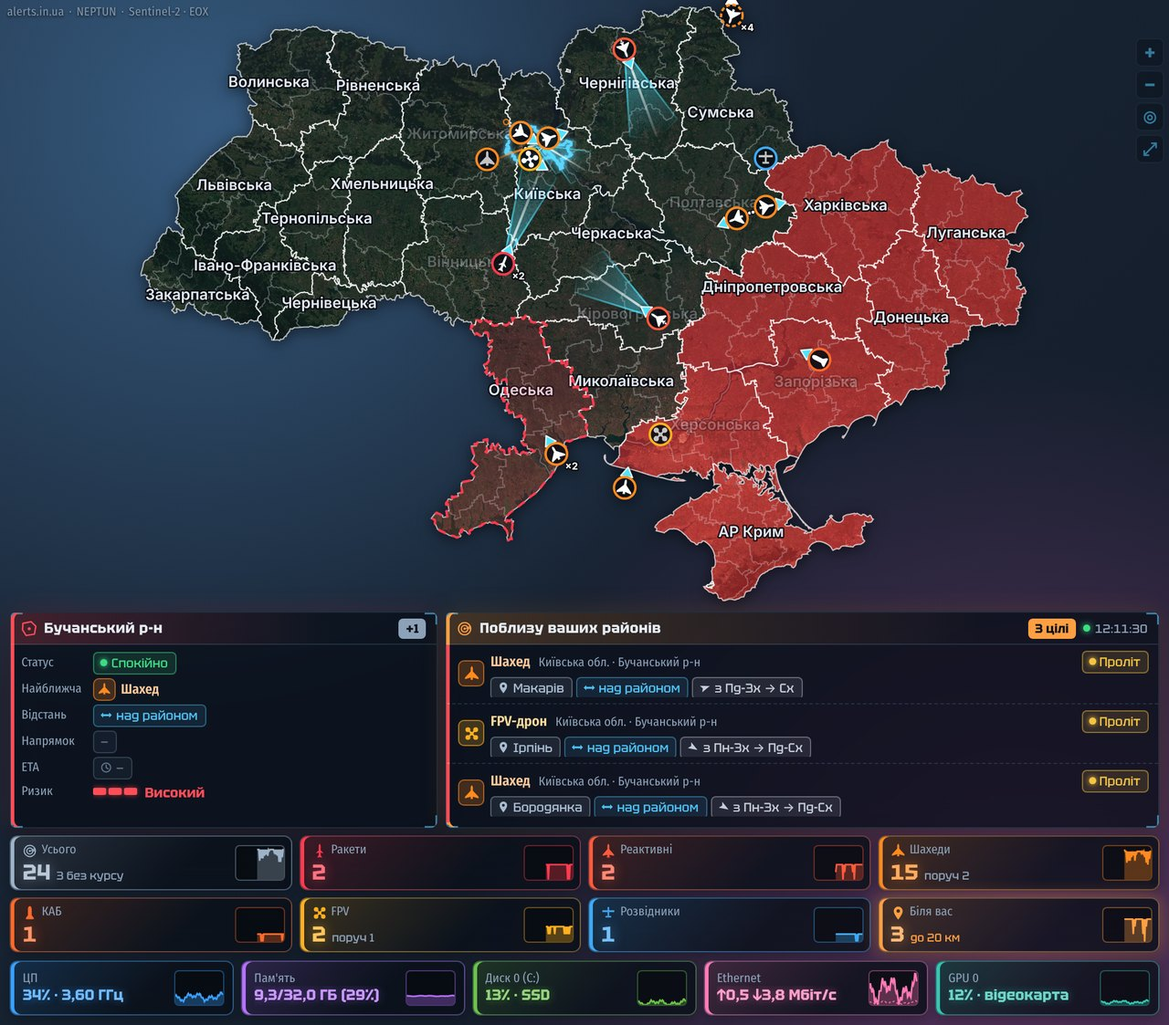
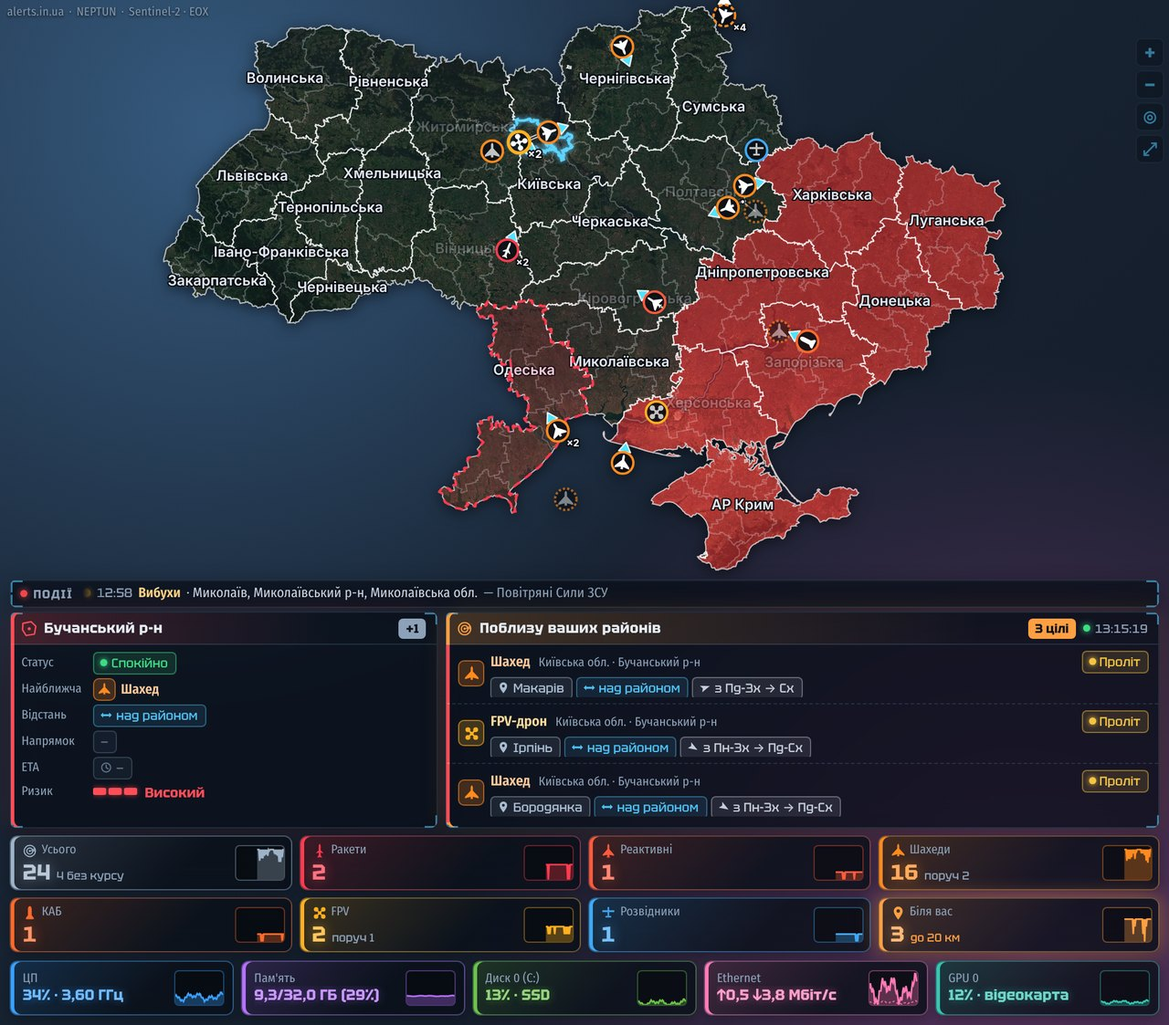
Docs for 1.2.0: ticker, explosions, names, zoom, jets rule, screenshots
Claude-Session: https://claude.ai/code/session_015jB7h2nFuFP4EwWEfuxPCM

diff --git a/app/neptun/README.md b/app/neptun/README.md
@@ -8,20 +8,25 @@
 - **Мітки на карті**: іконка за типом (шахед, **реактивний шахед**, FPV, розвідник, ракета, балістика, КАБ, МіГ-31К),
   покажчик курсу, «×2» для групи з повідомлення. Між оновленнями мітка рухається за курсом і швидкістю.
 - **Реактивний чи звичайний.** Відкритий API NEPTUN дає обом тип `uav` (точна позначка `subtype: "jet"` є лише в
-  закритому API), тому по черзі: `subtype`, якщо прийде; слово «реактивний» у назві чи описі цілі; свіжі пости каналів
-  про це ж місце (`GET /api/v1/messages`, `intel.js`); виміряна швидкість від 300 км/год. У картці цілі в рядку «Тип»
-  видно, звідки висновок («@monitor1654 11:58», «опис», «420 км/год», «ймовірно»).
+  закритому API), тому по черзі: `subtype`, якщо прийде; слово «реактивний» у назві чи описі цілі; пости каналів про це
+  ж місце (`GET /api/v1/messages`, `intel.js`) — реактивним шахед стає, лише коли так пишуть Повітряні Сили або щонайменше
+  два різні канали; якщо один — лишається звичайним, як на карті NEPTUN, з позначкою «можливо реактивний · канал»;
+  виміряна швидкість від 300 км/год. У картці цілі в рядку «Тип» видно, звідки висновок.
 - **Джерела при наведенні.** Підказка над ціллю показує, хто про неї писав: до трьох каналів із часом і рядком
   поста (спершу ті, що назвали саме цей вид цілі), і скільки підтверджень налічив NEPTUN. Якщо пост не знайшовся —
   «NEPTUN · зведення моніторингових каналів». У картці цілі канали — кнопки, клік відкриває канал у Telegram.
 - **Траєкторії**: звідки ціль летіла (лінія від першої згадки) і куди летить (напівпрозорий сектор ±12°, ±22° —
   якщо курс оцінковий).
 - **Звідки летить**: у картці цілі рядок «Звідки» (напрям і район або «з моря», «з-за кордону») — з першої згадки
-  треку, а якщо її немає, оцінка назад за курсом (лінія пунктиром, «оцінка»). Для обраної цілі й цілей біля ваших
-  районів лінія «звідки» на карті є завжди.
-- **Шахеди без курсу** на карті не малюються, якщо вони не ближче 50 км до ваших районів, — вони є в плитках
-  («N без курсу»), клік по плитці показує їх по черзі. Так само робить і карта NEPTUN. Розвідники, які зазвичай
-  кружляють без курсу, видно завжди.
+  треку, а якщо її немає, оцінка назад за курсом (лінія пунктиром, «оцінка»).
+- **Траєкторії лише для вибраної цілі.** Звідки летить і промінь «куди» малюються тільки для цілі, на яку ви
+  клікнули (або для групи); на решті — маленька стрілка курсу. Так карта не світиться.
+- **Шахеди без курсу** далі ніж 50 км від ваших районів — бліді: про них відомо лише місце, біля якого їх бачили.
+- **Вибухи** з постів каналів (`intel.js`): рядок зі словами «вибух», «приліт», «влучання» (але не «можливі вибухи», «не
+  чути») і назвою міста, знайденою в довіднику населених пунктів (`basemap/places.js`), — значок на 15 хвилин; наведення
+  показує канали, час і рядок поста.
+- **Стрічка подій** під картою (`ticker.js`): тривоги й відбої (області, або райони, якщо не вся область), нові цілі,
+  вибухи — «час · подія · район, область — джерело»; біжить, при наведенні зупиняється.
 - **Одна мітка «×N»** для цілей, що на екрані накладаються і летять в один бік. Різні напрямки не зливаються: мітки
   розходяться віялом з тонкою лінією до справжнього місця. Клік по «×N» — список у вікні під картою.
 - **Цілі за межами карти** притиснуті до краю, стрілка — куди саме. Над морем без назви місця — «над Чорним морем ·
@@ -35,14 +40,14 @@
 - **Зум**: кнопки «+», «−», «◎» (мої райони), «⤢» (уся карта) праворуч угорі, колесо миші над картою; коли карта
   наближена, її можна тягнути мишею (у звичайному масштабі перетягування, як і раніше, рухає віджет).
 - **Підкладки карти** (`basemap.js`, папка `basemap/`), без інтернету:
-  - «Карта з дорогами» — дороги, залізниці, річки, водосховища, забудова, назви міст і містечок;
+  - «Карта з дорогами» — дороги (до третьорядних при сильному наближенні), залізниці, річки, водосховища, забудова;
   - «Супутник» — знімок Sentinel-2: уся карта одним малим файлом, ближче вантажаться плитки 512 px лише видимої
-    частини; райони стають напівпрозорими, тривоги лишаються червоними;
-  - «Супутник і дороги».
+    частини; ще ближче, коли є інтернет, — плитки EOX прямо з сервера (браузер тримає їх у кеші тиждень);
+  - «Супутник і дороги» та «Темний супутник» (притемнений знімок, тонкі блакитні дороги, тривоги — легка заливка з контуром).
 
-  Дрібніші дороги й містечка з’являються при наближенні, назви не налазять одна на одну, на назви областей і
-  на мітки цілей. Шари зібрано скриптом [`build/make-basemap.py`](../../build/make-basemap.py), джерела й ліцензії —
-  у [`basemap/LICENSE.md`](basemap/LICENSE.md).
+  Назви — в усіх режимах: райони з ~1,8× (ваші — блакитні), міста за величиною, села з 13×; не налазять одна на одну, на
+  назви областей і на мітки цілей. Зум — до 40×. Шари зібрано скриптом
+  [`build/make-basemap.py`](../../build/make-basemap.py), джерела й ліцензії — у [`basemap/LICENSE.md`](basemap/LICENSE.md).
 - **Посилання на джерела** — дрібно в лівому верхньому куті карти: alerts.in.ua, NEPTUN (коли цілі ввімкнено) та
   джерела ввімкненої підкладки. Цього вимагають умови обох API та ліцензії карт.
 - **Плашка** «Ціль біля ваших районів» — лише коли нова ціль входить у радіус 5 / 10 / 20 / 50 км: на 2 секунди,
@@ -97,7 +102,7 @@
 Розділи «Карта» і «Цілі на карті» у вікні налаштувань. Значення — у `%APPDATA%\trevoga-map\settings.json`:
 
 ```json
-"neptun": { "markers": true, "panel": true, "hideFpv": false, "alert": true, "alertKm": 20, "alertSound": false, "cardSide": "left", "basemap": "none" }
+"neptun": { "markers": true, "panel": true, "hideFpv": false, "alert": true, "alertKm": 20, "alertSound": false, "cardSide": "left", "basemap": "none", "booms": true, "ticker": true }
 ```
 
 | Ключ | Що означає |
@@ -109,7 +114,9 @@
 | `alertKm` | Радіус: 5, 10, 20 або 50 км (і для списку, і для плашки) |
 | `alertSound` | Короткий подвійний сигнал разом із плашкою; гучність — з розділу «Сповіщення» |
 | `cardSide` | Вікно під картою: `left` або `right` (на широкому віджеті) |
-| `basemap` | Підкладка: `none`, `map` (дороги), `sat` (супутник), `hybrid` (супутник і дороги); працює й з вимкненими цілями |
+| `basemap` | Підкладка: `none`, `map` (дороги), `sat` (супутник), `hybrid` (супутник і дороги), `dark` (темний супутник); працює й з вимкненими цілями |
+| `booms` | Вибухи з постів каналів на карті |
+| `ticker` | Стрічка подій під картою |
 
 ## Файли
 
@@ -118,10 +125,11 @@
 | `index.js` | Підключає стилі та скрипти шару до `widget.html` |
 | `client.js` | WebSocket `wss://neptun.in.ua/api/v1/stream`: перепідключення з паузами до 30 с, сторожовий таймер, резервний REST `GET /api/v1/threats` не частіше ніж раз на 15 с |
 | `types.js` | Типи цілей: назви, кольори, іконки, реактивний чи звичайний (`classify`), прогноз руху між оновленнями |
-| `intel.js` | Пости каналів (`GET /api/v1/messages`, раз на 30 с): який шахед згадано як реактивний |
+| `intel.js` | Пости каналів (`GET /api/v1/messages`, раз на 30 с): реактивний чи ні, джерела цілі, вибухи |
+| `ticker.js` | Стрічка подій під картою |
 | `geo.js` | Проєкція Ламберта (як у `build/make-map.js`), відстані, напрямки, геометрія районів |
 | `zoom.js` | Зум карти: кнопки, колесо, перетягування наближеної карти |
-| `basemap.js`, `basemap/` | Підкладки карти: супутник (`sat/`, `sat.js`), дороги й міста (`vector.js`), джерела (`LICENSE.md`) |
+| `basemap.js`, `basemap/` | Підкладки карти: супутник (`sat/`, `sat.js`), дороги й вода (`vector.js`), назви міст, сіл і районів (`places.js`), джерела (`LICENSE.md`) |
 | `hud.css`, `fonts/` | Стиль HUD-вікон і плашок; шрифти Tektur і Fira Sans Condensed (SIL OFL) |
 | `widget.js`, `widget.css` | Мітки, траєкторії, групи, стрілки біля краю, контури областей, вікно й плитки під картою, підказки |
 | `alert.html`, `alert.js` | Плашка «Ціль біля ваших районів» на 2 секунди |

diff --git a/app/neptun/PROMPT.md b/app/neptun/PROMPT.md
@@ -41,6 +41,10 @@
    «Шахед» / «Реактивний шахед», для групп «Шахеди» / «Реактивні шахеди». В карточке строка «Тип» показывает основание:
    «пост 11:06», «опис», «420 км/год» или «ймовірно» (ничего не нашлось — обычный, как большинство). FPV распознаётся
    и по типу, и по названию.
+   - **Реактивный только при подтверждении.** Пост одного канала («2 реактивні 🛵 на Славутич») NEPTUN часто не считает
+     реактивным; поэтому `jet` — если так пишут Повітряні Сили или ≥ 2 разных канала, иначе `maybe`: считается обычным,
+     в карточке «можливо реактивний · канал». Скорость ≥ 300 км/ч вместе с `maybe` — реактивный.
+   - **Траектории только у выбранной цели** (или группы): откуда и куда; у остальных — стрелка курса на значке.
    - **Источники при наведении.** В подсказке над целью — до трёх каналов, писавших о её месте (`intel.sources()`):
      имя канала, время, строка поста; сначала те, что назвали именно этот вид цели, строки о другом виде (КАБ для
      шахеда) не считаются, строки тревог/отбоя пропускаются. Плюс «N підтверджень» (`sourceCount`). Если поста нет —
@@ -54,8 +58,8 @@
      или «з-за кордону». Берётся первая точка `trail`, иначе точка сообщения, если цель уже сдвинулась, иначе оценка
      назад по курсу (40–80 км, пометка «оцінка», линия пунктиром). У выбранной цели и у целей в радиусе ваших районов
      линия «откуда» на карте есть всегда; в строках окошка — «з Пн-Зх → Пд-Сх».
-4. **Шахеды без курса** не рисуются, если они не ближе 50 км к вашим районам (разведчики, которые обычно кружат
-   без курса, видны всегда). Они есть
+4. **Шахеды без курса** дальше 50 км от ваших районов рисуются бледными (класс `faint`): известно лишь место,
+   у которого их видели. Раньше они, как на карте NEPTUN, не рисовались — это путало. Они есть
    в плитках («N без курсу») и открываются оттуда. Так делает и карта NEPTUN: «Дрони без курсу на карті не малюємо,
    хіба що вони поруч із Домом».
 5. **«×N»** — одна отметка для целей, которые на экране ближе 15 px друг к другу **и летят в одну сторону**
@@ -101,6 +105,16 @@
 
     Названия не налезают друг на друга, на подписи областей и на отметки целей.
 16. **Ссылки на источники** мелким шрифтом в левом верхнем углу карты — только для того, что включено.
+17. **Взрывы** из постов (`intel.booms()`): строка с «вибух / приліт / влучання» без «можливі / не чути» и с городом из
+    справочника (`basemap/places.js`, ключи как у `intel.placeKey`; короткое однословное имя — только для больших
+    городов) — значок на 15 минут, при наведении каналы, время и строка. Открытый API своих взрывов не даёт (у NEPTUN
+    они из закрытого `/api/v1/live`).
+18. **Лента событий** (`ticker.js`) между картой и окошком: тревоги и отбои по IoT-строке alerts.in.ua (область целиком
+    или её районы, «+N»), новые цели (по виду и области, источник — канал из `intel.sources()` или NEPTUN), взрывы.
+    Формат «час · подія · район, область — джерело», бежит, при наведении стоит.
+19. **Названия во всех режимах подложки**, зум до 40× (колесо пропорционально, тачпад и щипок плавно, кнопки
+    с анимацией), «Темний супутник», детальный спутник EOX онлайн при сильном зуме (плитки Меркатора ставятся
+    аффинным преобразованием по углам, обрезаны по контуру Украины).
 14. **Плашки тревоги и отбоя** (`app/overlay.*`) — тоже на 2 секунды, полупрозрачные, без ✕, сквозь них можно кликать.
 
 ## 3. Откуда данные: API NEPTUN

diff --git a/README.md b/README.md
@@ -20,10 +20,12 @@
 | | |
 | --- | --- |
 | 🗺 **Кожен район** | 136 районів і всі області. Червоний і жовтий рівні тривоги. При наведенні видно, з якого часу тривога, які загрози та коли була остання. |
-| 🛩 **Цілі в небі** | Шахеди (реактивні окремо), ракети, балістика, КАБ, авіація, розвідники, FPV, морські дрони. Видно траєкторію, звідки летить і куди. Скупчення об’єднуються в одну мітку «×N». Наведіть на ціль — і побачите **джерела**: які канали про неї писали, о котрій і що саме. |
+| 🛩 **Цілі в небі** | Шахеди (реактивні окремо), ракети, балістика, КАБ, авіація, розвідники, FPV, морські дрони. Клік по цілі показує, звідки вона летить і куди. Скупчення об’єднуються в одну мітку «×N». Наведіть на ціль — і побачите **джерела**: які канали про неї писали, о котрій і що саме. |
+| 💥 **Вибухи** | Коли канали пишуть про вибухи в місті, на карті 15 хвилин видно значок. Наведіть — побачите, хто написав. |
+| 📰 **Стрічка подій** | Один рядок під картою: тривоги й відбої, нові цілі, вибухи — «Тривога · Чугуївський р-н, Харківська обл. — alerts.in.ua». |
 | 🎯 **Що біля вас** | Під картою вікно з цілями поруч із вашими районами: відстань, напрямок, ETA і ризик. Клік по цілі відкриває її картку. |
 | 🔔 **Тихі сповіщення** | Плашка на 2 секунди при тривозі, відбої та коли ціль ближче ніж 5 / 10 / 20 / 50 км. Напівпрозора, крізь неї проходять кліки, звук за бажанням. |
-| 🛰 **Супутник і дороги** | Чотири підкладки: звичайна, карта з дорогами та містами, супутник, супутник із дорогами. Працюють **без інтернету**. Зум кнопками, колесом і перетягуванням. |
+| 🛰 **Супутник і дороги** | П’ять підкладок: звичайна, карта з дорогами, супутник, супутник із дорогами, темний супутник. Працюють **без інтернету**. Зум до 40× кнопками, колесом і тачпадом. При наближенні з’являються назви районів, міст і сіл, а з інтернетом — детальний супутник. |
 | 📊 **Плитки й навантаження ПК** | Кількість цілей за типами з графіком за 30 хвилин. Поруч ЦП, пам’ять, диски, мережа та відеокарта, як у Диспетчері завдань. |
 | ⚡ **Оновлюється сам** | Нові версії приходять з GitHub і встановлюються за кілька секунд, коли у ваших районах немає тривоги. |
 | 🪶 **Не заважає** | Прозорий фон: живе на робочому столі над ярликами або під ними, як шпалери. Кліки повз карту проходять крізь неї. |

diff --git a/app/neptun/basemap/LICENSE.md b/app/neptun/basemap/LICENSE.md
@@ -5,7 +5,11 @@
 | Файли | Що | Джерело і ліцензія |
 | --- | --- | --- |
 | `sat/` | супутниковий знімок | **Sentinel-2 cloudless 2017** — <https://s2maps.eu> by EOX IT Services GmbH (contains modified Copernicus Sentinel data 2017), [CC BY 4.0](https://creativecommons.org/licenses/by/4.0/). Змінено: перепроєктовано, обрізано по кордону України, трохи затемнено. |
-| `vector.js` — дороги, залізниці, назви містечок | | © учасники **OpenStreetMap**, [ODbL 1.0](https://www.openstreetmap.org/copyright); вивантаження Humanitarian OpenStreetMap Team (HOT) на [HDX](https://data.humdata.org/organization/hot). Похідна база даних у `vector.js` поширюється на умовах ODbL. |
-| `vector.js` — вода, річки, забудова, назви великих міст | | **Natural Earth** (public domain), <https://www.naturalearthdata.com>. |
+| `vector.js` — дороги, залізниці; `places.js` — містечка й села | | © учасники **OpenStreetMap**, [ODbL 1.0](https://www.openstreetmap.org/copyright); вивантаження Humanitarian OpenStreetMap Team (HOT) на [HDX](https://data.humdata.org/organization/hot). Похідні бази даних у `vector.js` і `places.js` поширюються на умовах ODbL. |
+| `vector.js` — вода, річки, забудова; `places.js` — великі міста | | **Natural Earth** (public domain), <https://www.naturalearthdata.com>. |
+| `places.js` — назви й центри районів | | межі OCHA / HDX COD-AB Ukraine, [CC BY-IGO](https://creativecommons.org/licenses/by/3.0/igo/) (через `app/assets/map.json`). |
+
+При сильному наближенні, коли є інтернет, віджет бере плитки того ж Sentinel-2 cloudless 2017 прямо з
+`tiles.maps.eox.at` (браузер тримає їх у кеші).
 
 У віджеті, коли шар увімкнено, у верхньому лівому куті карти є посилання на ці джерела.

diff --git a/docs/PLAN.md b/docs/PLAN.md
@@ -61,7 +61,8 @@
 | --- | --- |
 | Точные позиции дронов «как радар» | Данные — из сообщений в Telegram через NEPTUN. Задержка в минуты и погрешность в километры заложены в сам источник |
 | Предсказать, куда упадёт или ударит цель | Таких данных нет, а ошибка может стоить жизни |
-| Сбития, взрывы, пуски, аэродромы, как в легенде NEPTUN | Их нет в открытом API, только у самого NEPTUN. Появятся там — можно добавить |
+| Сбития, пуски, аэродромы, как в легенде NEPTUN | Их нет в открытом API, только в закрытом `/api/v1/live`. Взрывы теперь берём из постов каналов (`intel.booms`) |
+| Подложка карты NEPTUN под нашими отметками | Их тайлы и стиль — не часть открытого API. Встроить можно только карту целиком (`/embed/map`) — вместе с их отметками. Свою похожую сделали из тех же открытых данных: «Темний супутник» |
 | Заменить официальные сигналы тревоги | Виджет информационный. Сирены, «Повітряна тривога» и «Дія» важнее |
 | Пуш-уведомления на телефон из этого виджета | Нужен свой сервер и мобильное приложение; это уже другой проект |
 | Сделать «один в один как NEPTUN» (их вид, логотип, тексты) | Их бренд и дизайн принадлежат им. Свой спокойный стиль — да, копию — нет |

diff --git a/CHANGELOG.md b/CHANGELOG.md
@@ -2,6 +2,15 @@
 
 Розділ `## X.Y.Z` стає описом релізу на GitHub, а віджет показує його в «Налаштування → Оновлення».
 
+## 1.2.0
+
+- Стрічка подій під картою: тривоги й відбої, нові цілі, вибухи — «район, область — джерело».
+- Вибухи на карті з повідомлень каналів; наведіть — видно, хто написав.
+- Зум до 40×, плавний на колесі й тачпаді; назви районів, міст і сіл у всіх режимах карти.
+- Нова підкладка «Темний супутник»; детальніший супутник при сильному наближенні (з інтернетом).
+- Реактивні — лише коли так пишуть Повітряні Сили або кілька каналів, як на карті NEPTUN.
+- Траєкторія — лише для цілі, на яку клікнули; шахеди без курсу видно на карті (бліді).
+
 ## 1.1.0
 
 - Цілі на карті: шахеди (реактивні окремо), ракети, КАБ, авіація, розвідники, FPV. Траєкторія, звідки летить і куди.
